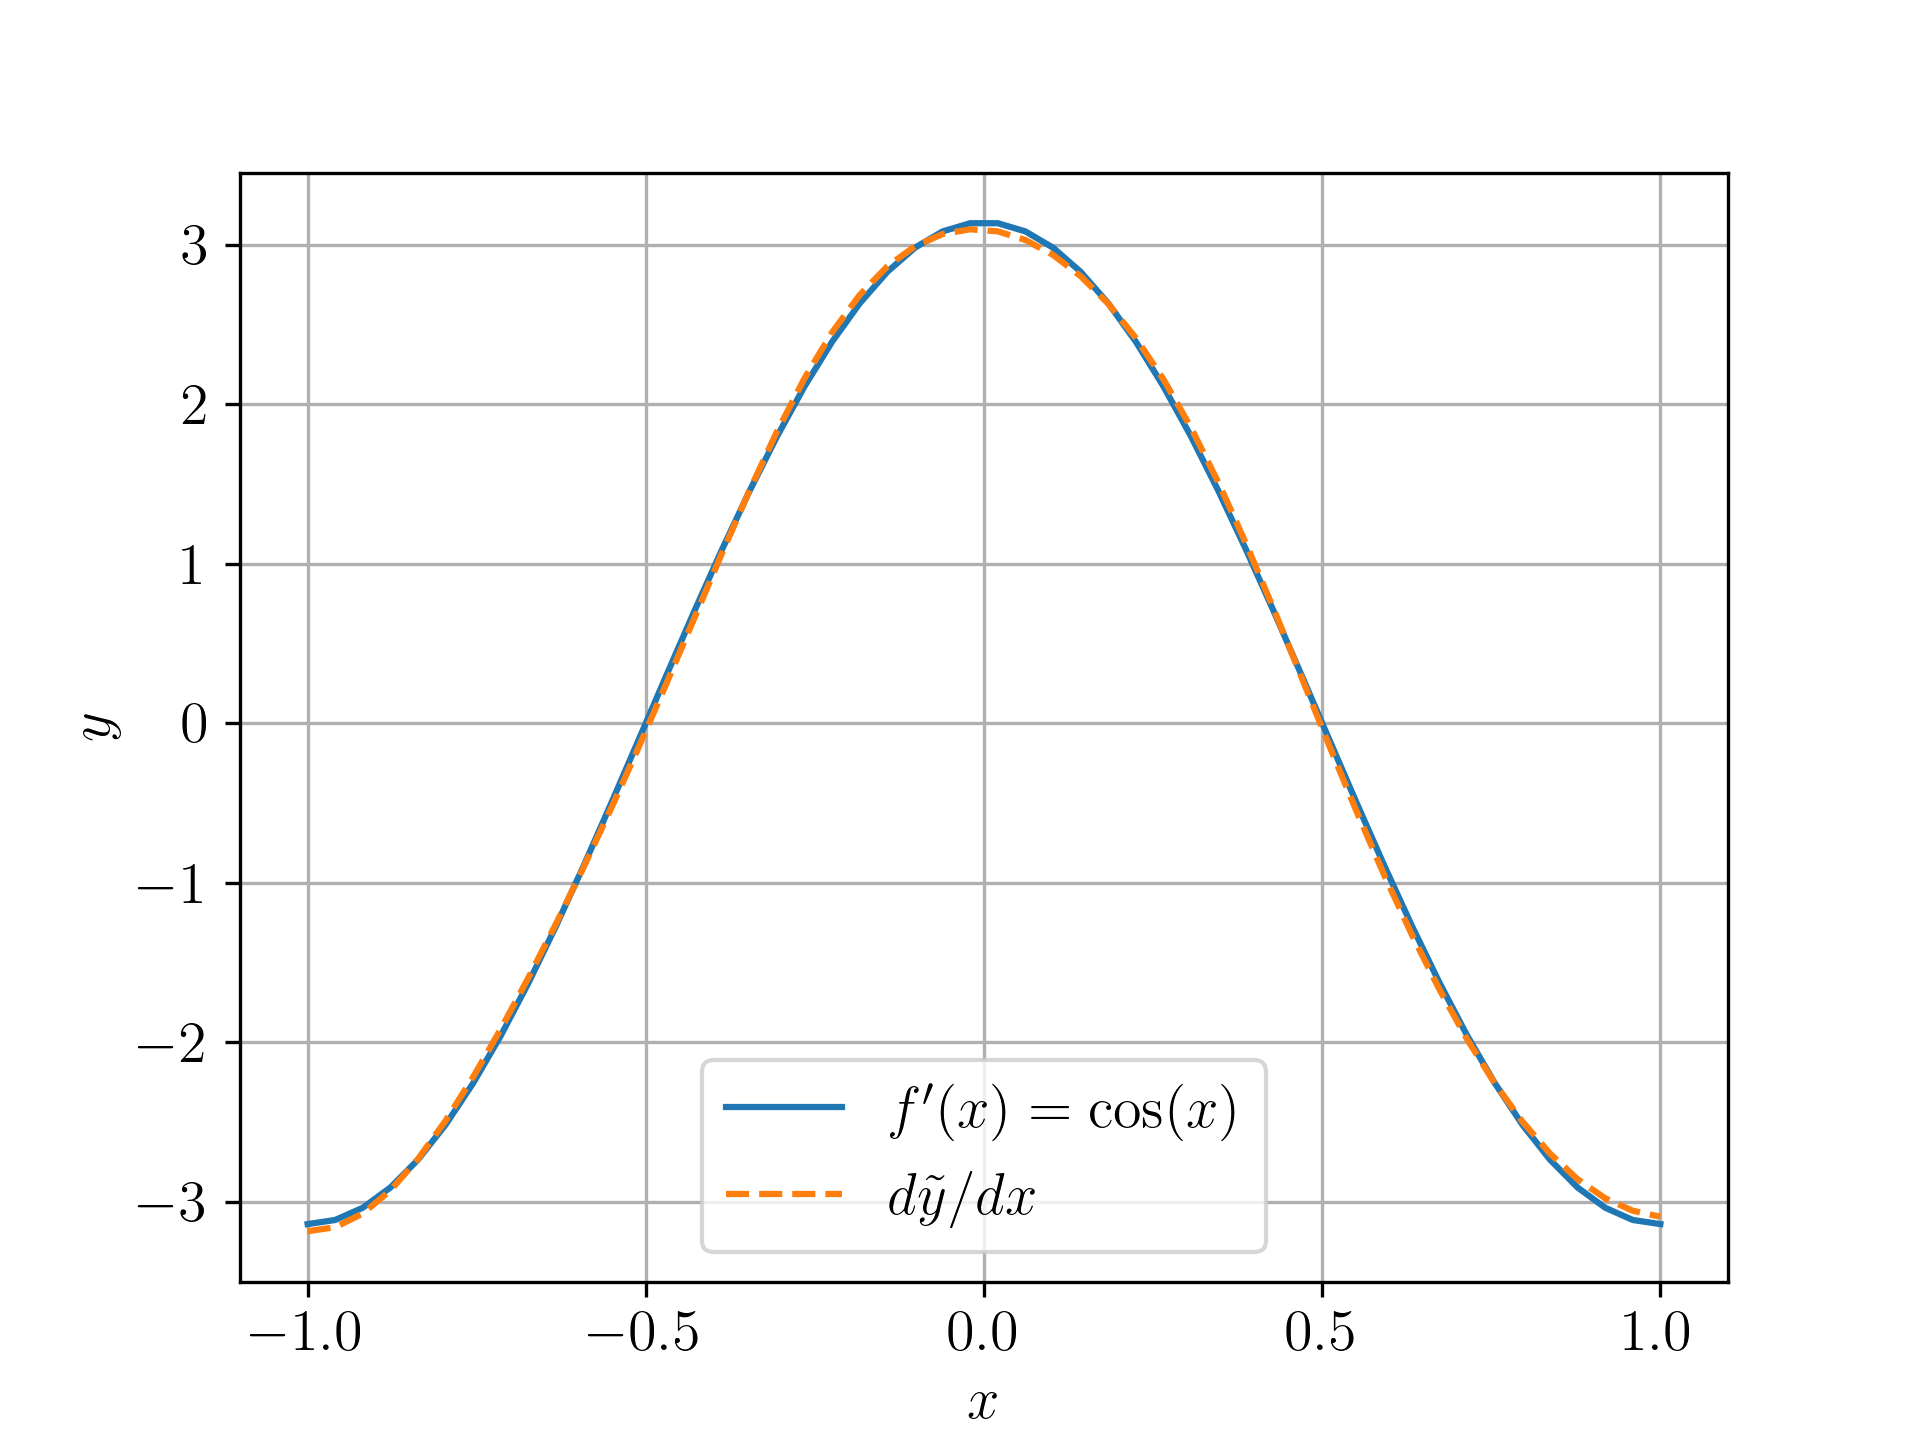
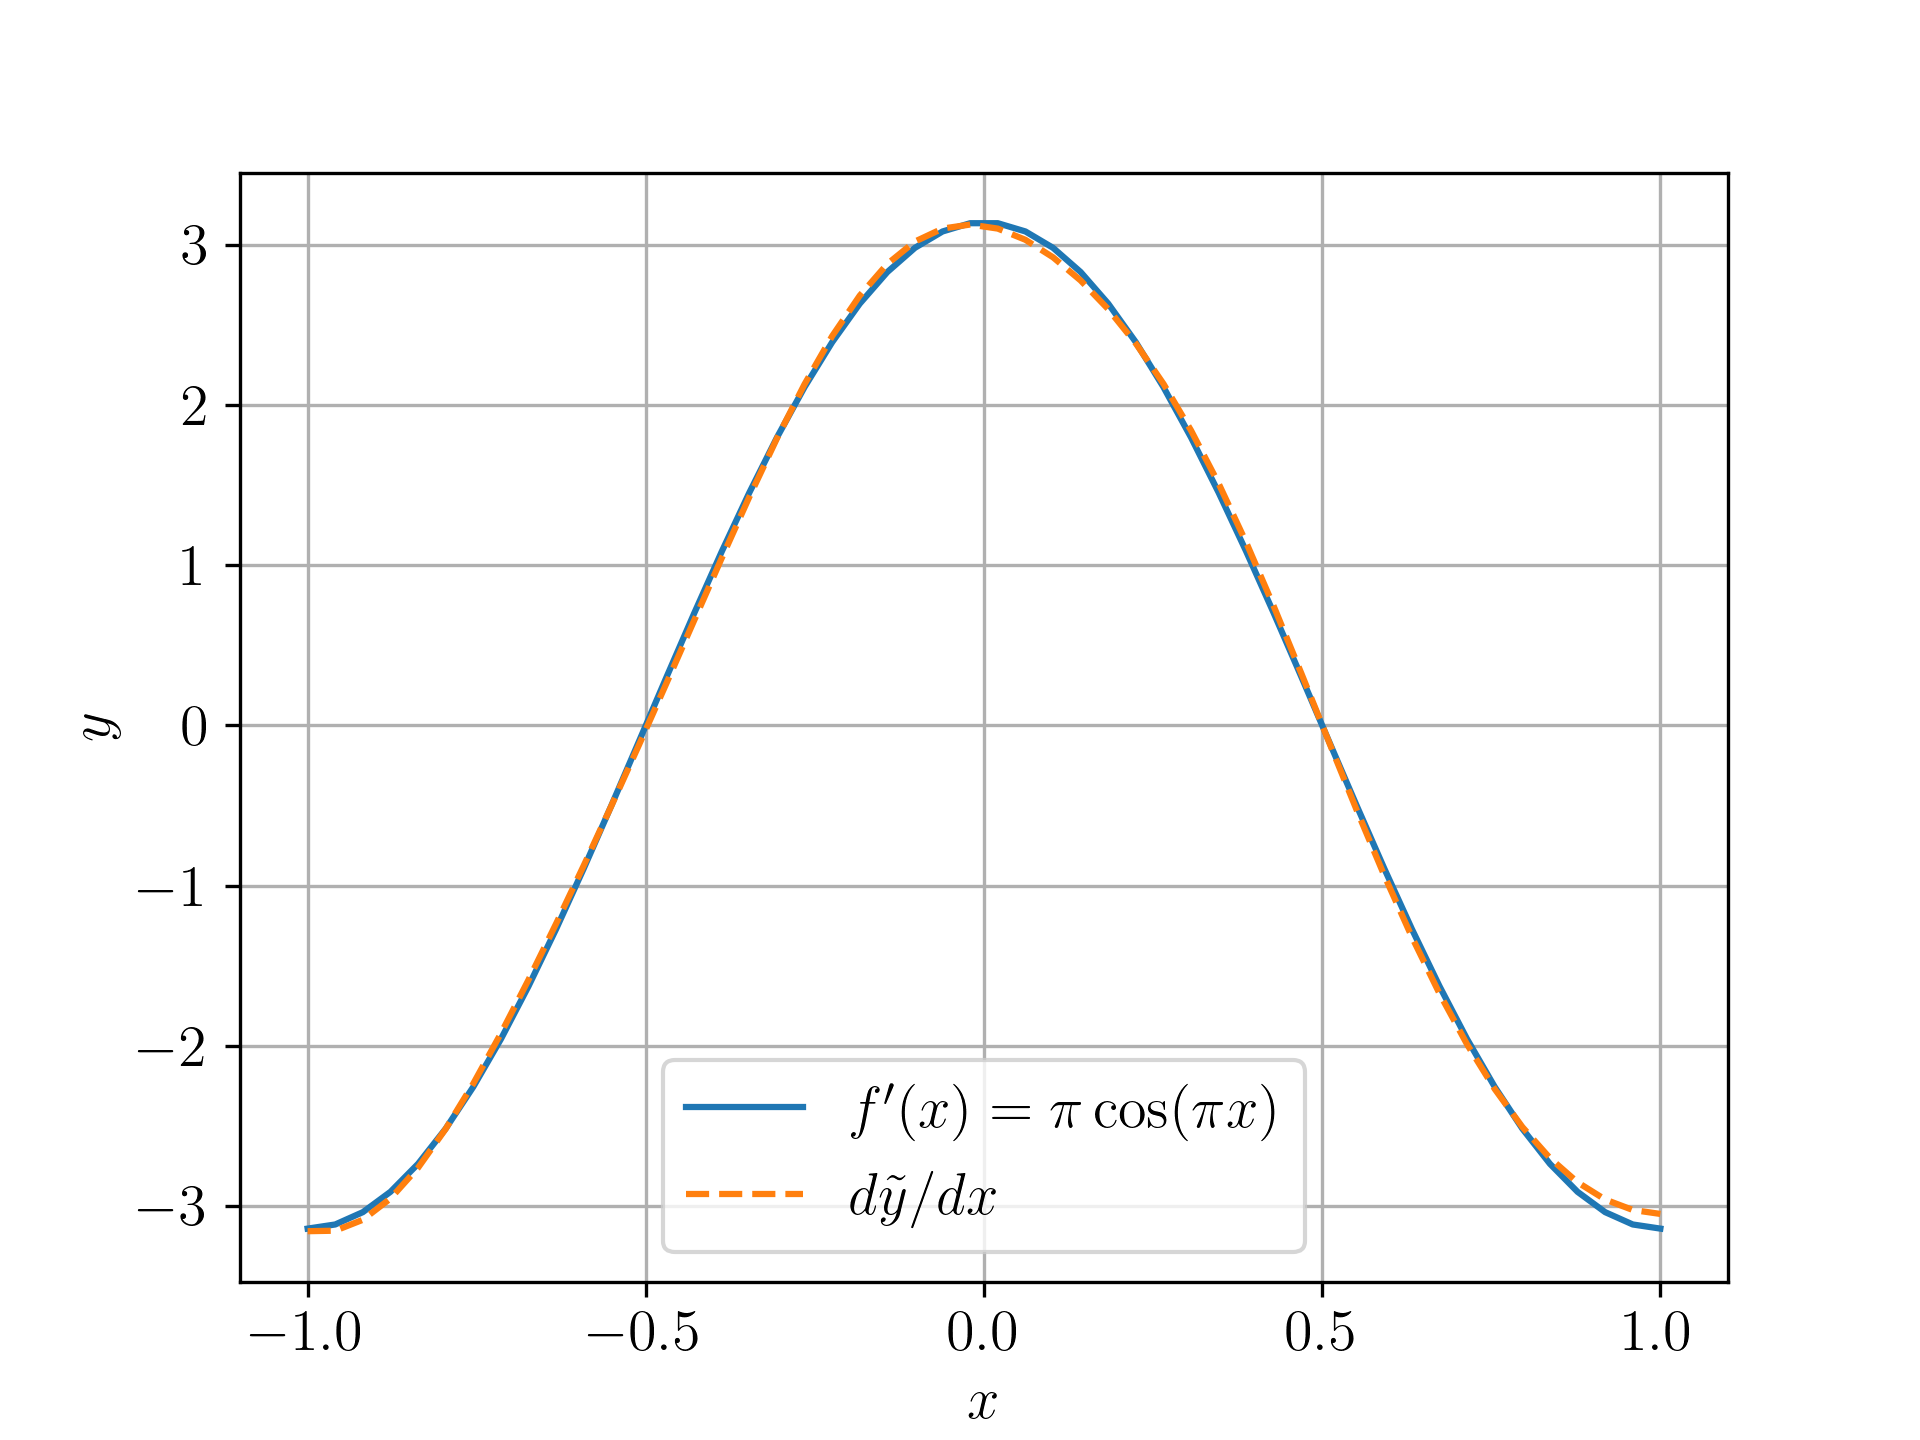
RNA: correções

diff --git a/src/RedesNeuraisArtificiais/cap_mlp/cap_mlp.tex b/src/RedesNeuraisArtificiais/cap_mlp/cap_mlp.tex
@@ -760,11 +760,11 @@ for epoch in range(nepochs):
   \begin{figure}[H]
     \centering
     \includegraphics[width=0.8\textwidth]{./cap_mlp/dados/fig_autograd_fun1d/fig}
-    \caption{Comparação da autograd da MLP com a derivada exata $f'(x)=\cos(x)$ para o Exemplo \ref{cap_mlp_sec_autograd:ex:fun1d}.}
+    \caption{Comparação da autograd da MLP com a derivada exata $f'(x)=\pi\cos(\pi x)$ para o Exemplo \ref{cap_mlp_sec_autograd:ex:fun1d}.}
     \label{cap_mlp_sec_autograd:fig:fun1d}
   \end{figure}
 
-  Uma vez treinada, nossa MLP é uma aproximadora da função seno, i.e. $\tilde{y} \approx \sen(x)$. Usando de autograd podemos computar $\tilde{y}' \approx \cos(x)$. O código abaixo, computa $d\tilde{y}/dx$ a partir da rede e produz o gráfico da figura acima.
+  Uma vez treinada, nossa MLP é uma aproximadora da função seno, i.e. $\tilde{y} \approx \sen(\pi x)$. Usando de autograd podemos computar $\tilde{y}' \approx \pi\cos(\pi x)$. O código abaixo, computa $d\tilde{y}/dx$ a partir da rede e produz o gráfico da figura acima.
 
 \begin{lstlisting}
 # verificação
@@ -775,7 +775,7 @@ xx = torch.linspace(a, b,
                     steps=50).reshape(-1,1)
 # y' = cos(x)
 dy_esp = torch.pi*torch.cos(torch.pi*xx)
-ax.plot(xx, dy_esp, label="$f'(x) = \cos(x)$")
+ax.plot(xx, dy_esp, label="$f'(x) = \\pi\cos(\\pi x)$")
 
 # model autograd
 dy_est = torch.empty_like(xx)
@@ -788,8 +788,8 @@ ax.plot(xx, dy_est, label='$d\\tilde{y}/dx$')
 
 ax.legend()
 ax.grid()
-ax.set_xlabel('x')
-ax.set_ylabel('y')
+ax.set_xlabel('$x$')
+ax.set_ylabel('$y$')
 plt.show()
 \end{lstlisting}
 \end{ex}

diff --git a/src/RedesNeuraisArtificiais/cap_mlp/dados/py_autograd_fun1d/main.py b/src/RedesNeuraisArtificiais/cap_mlp/dados/py_autograd_fun1d/main.py
@@ -65,7 +65,7 @@ xx = torch.linspace(a, b,
                     steps=50).reshape(-1,1)
 # y' = cos(x)
 dy_esp = torch.pi*torch.cos(torch.pi*xx)
-ax.plot(xx, dy_esp, label="$f'(x) = \cos(x)$")
+ax.plot(xx, dy_esp, label="$f'(x) = \\pi\cos(\\pi x)$")
 
 # model autograd
 dy_est = torch.empty_like(xx)

diff --git a/src/RedesNeuraisArtificiais/cap_mlp/dados/fig_autograd_fun1d/main.py b/src/RedesNeuraisArtificiais/cap_mlp/dados/fig_autograd_fun1d/main.py
@@ -71,7 +71,7 @@ xx = torch.linspace(a, b,
                     steps=50).reshape(-1,1)
 # y' = cos(x)
 dy_esp = torch.pi*torch.cos(torch.pi*xx)
-ax.plot(xx, dy_esp, label="$f'(x) = \cos(x)$")
+ax.plot(xx, dy_esp, label="$f'(x) = \\pi\cos(\\pi x)$")
 
 # model grad
 dy_est = torch.empty_like(xx)
